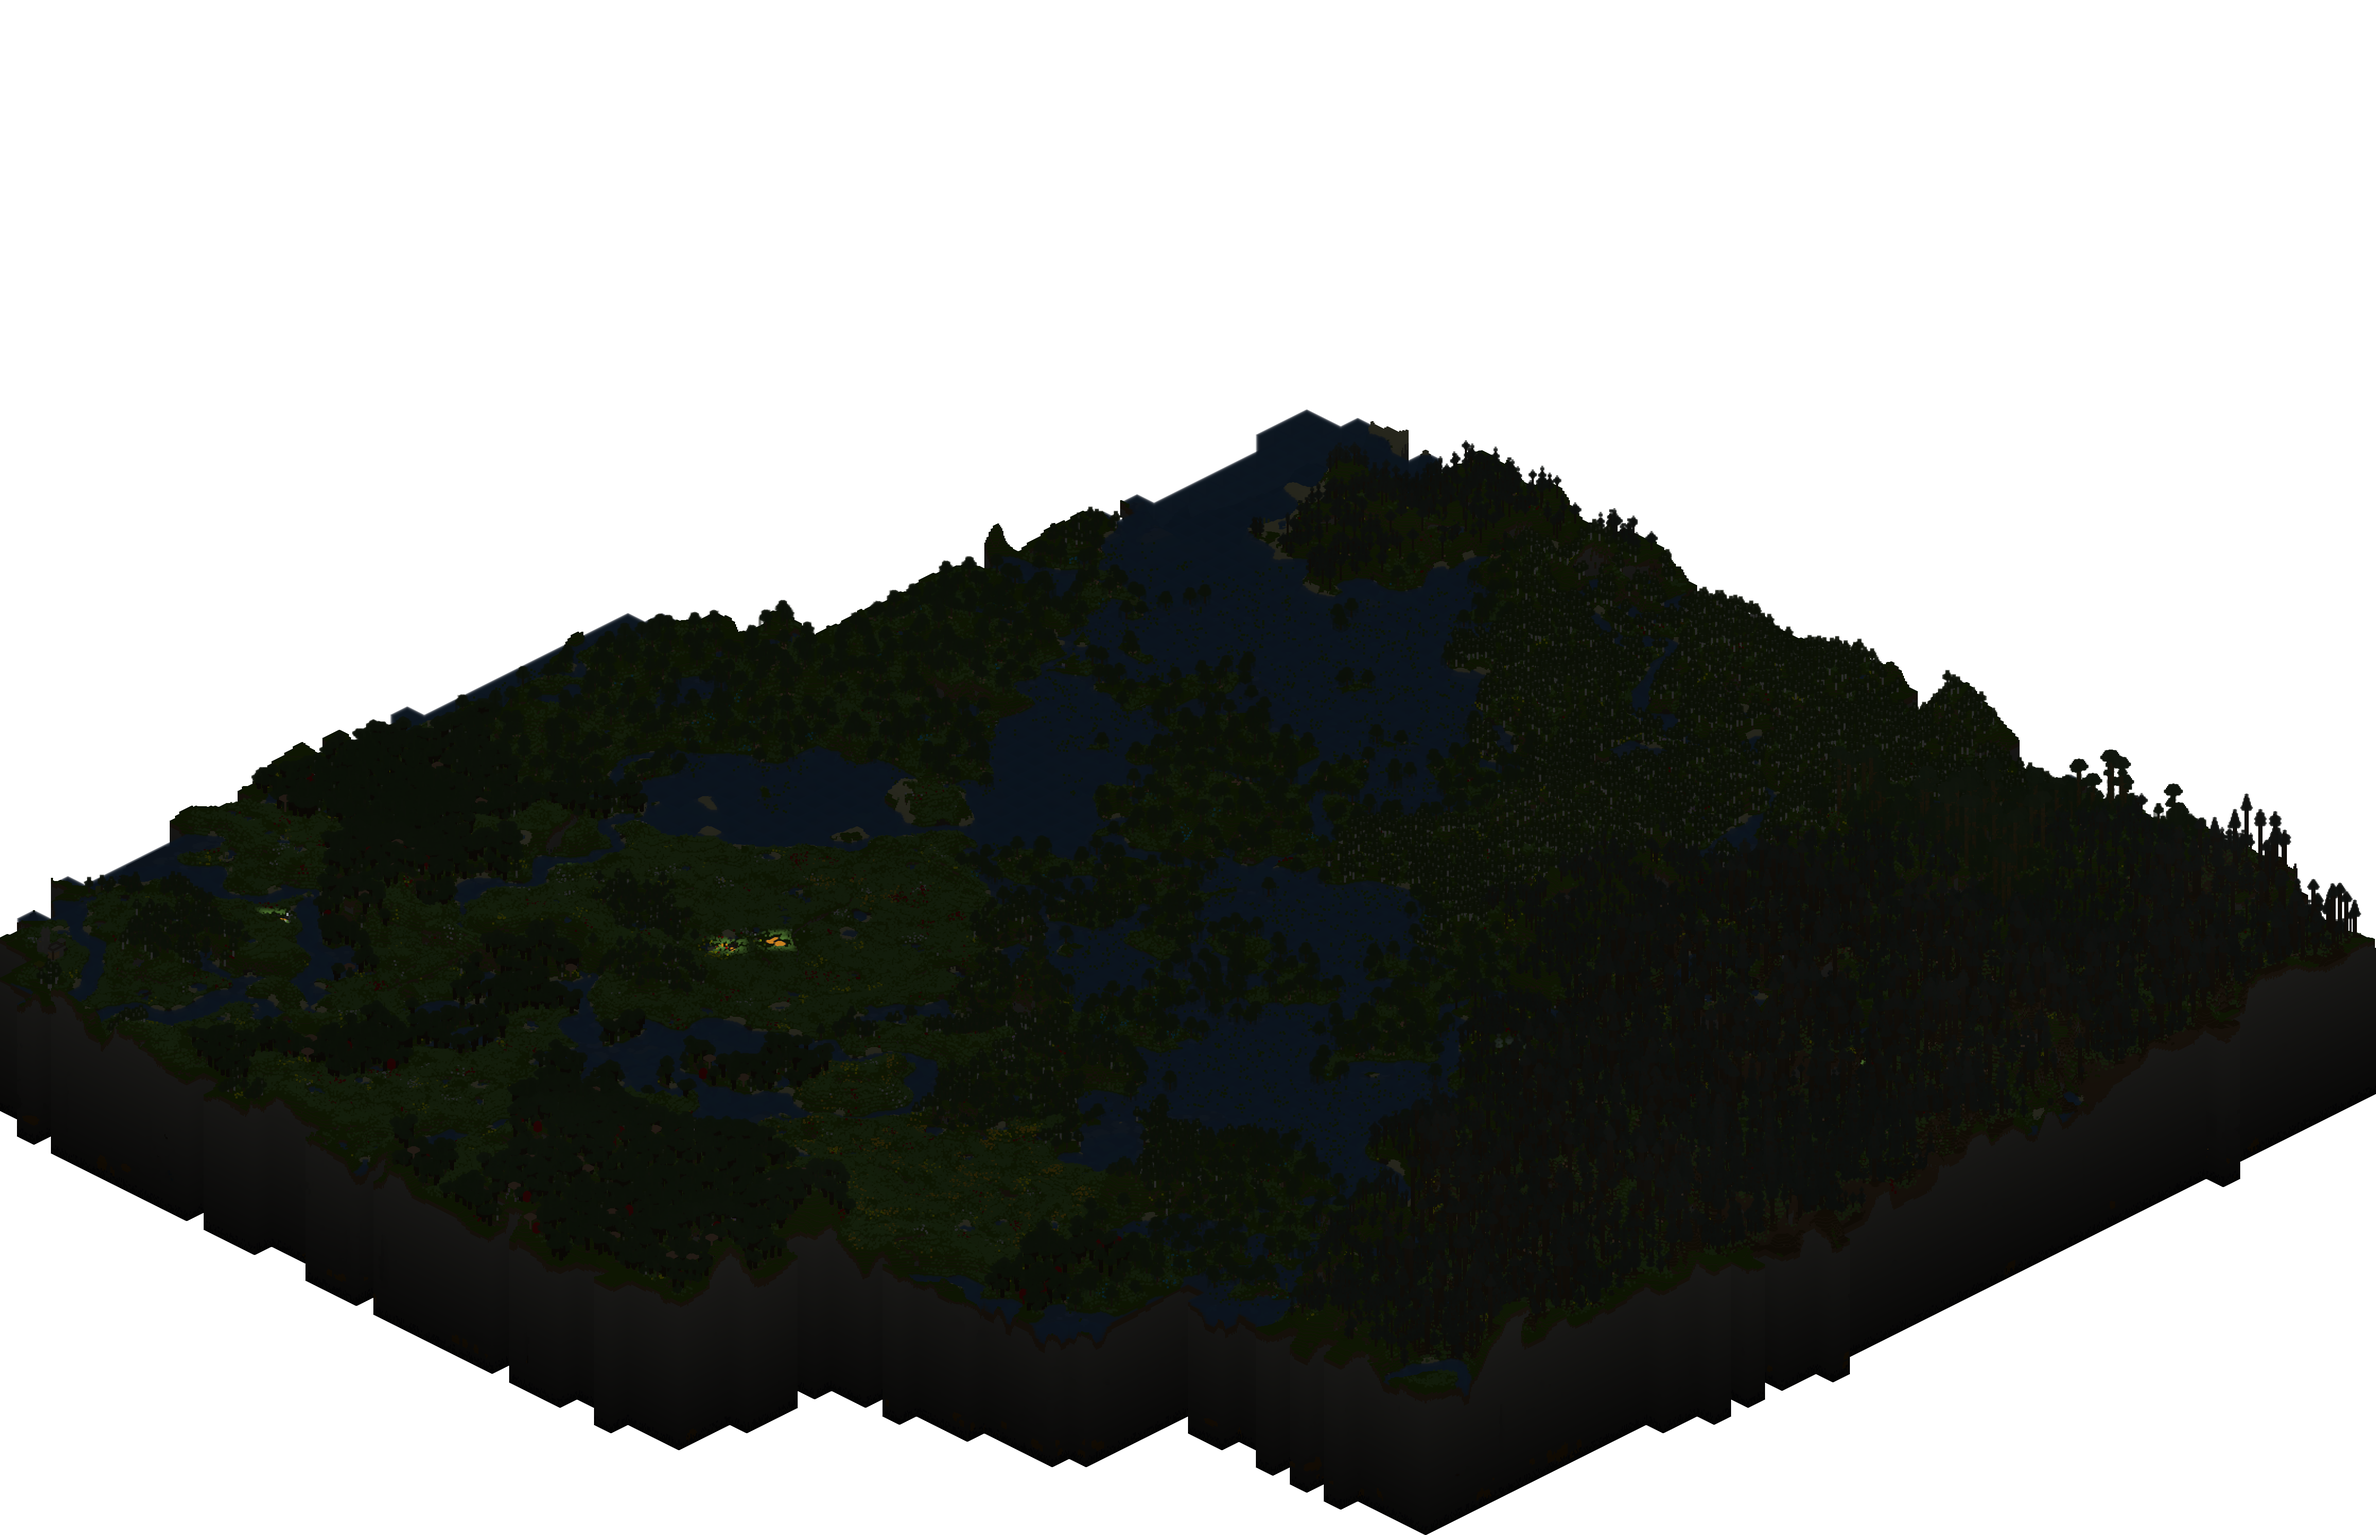
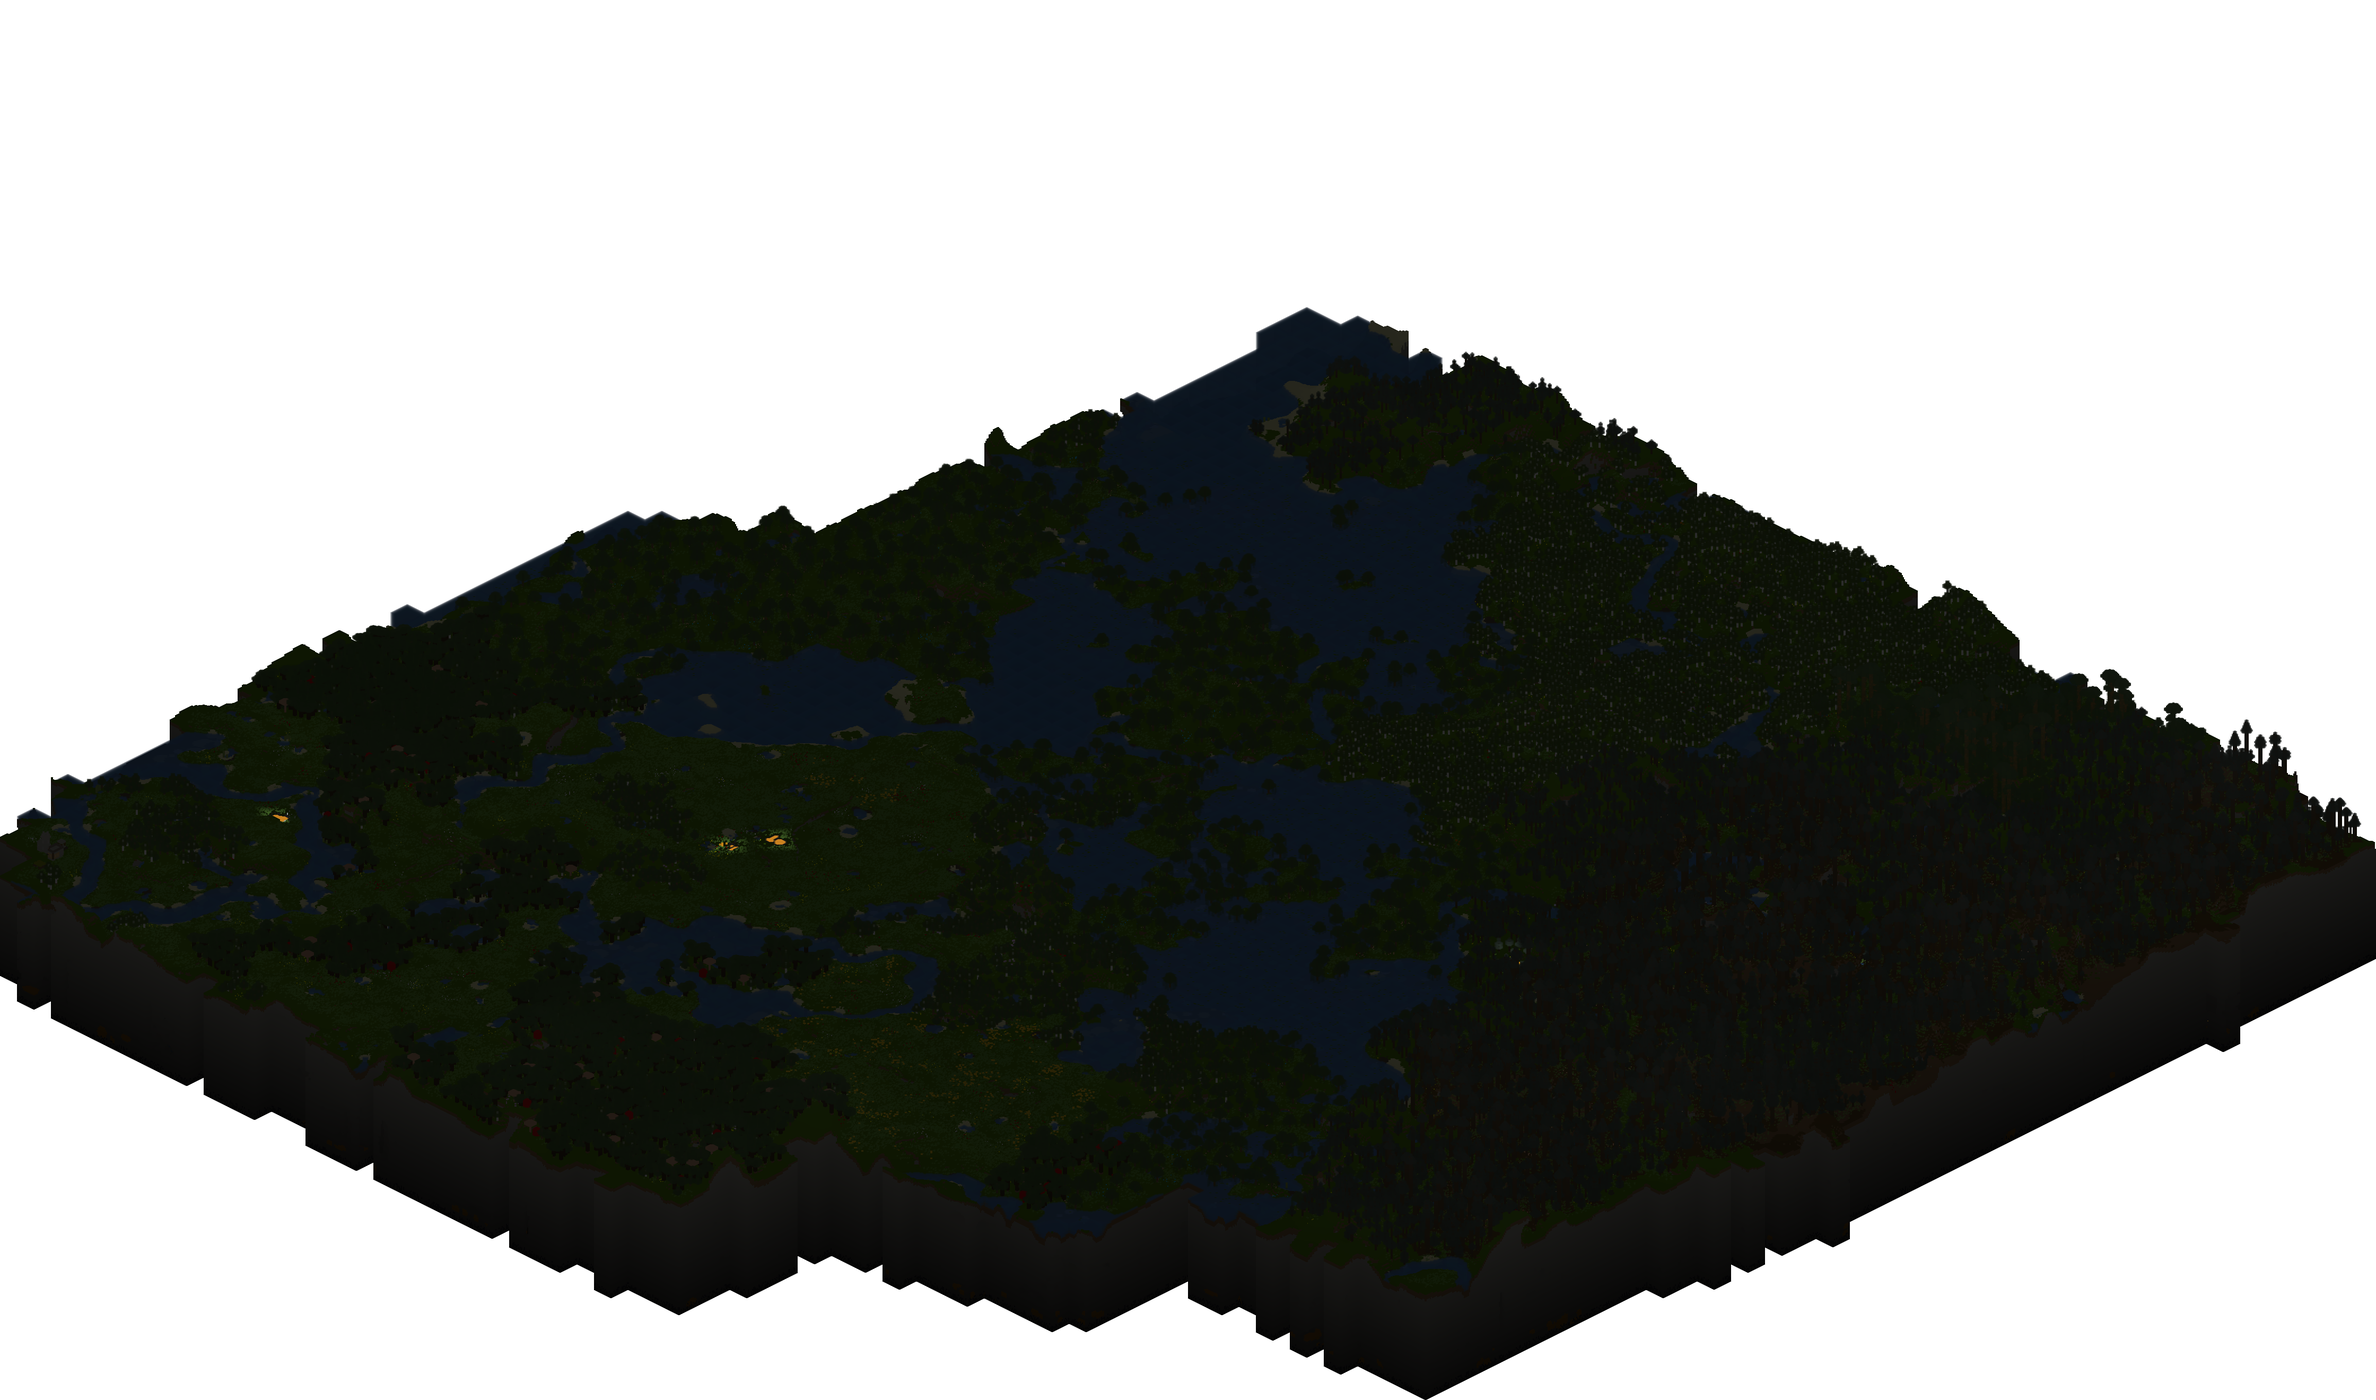
Isometric blocks now overlap vertically
This fixes a problem where hidden blocks were sometimes showing through
to the surface.

Adjusted several constants, as well as height and margin calculations.

Also added a check to avoid drawing the top of a block if it will be
covered by an opaque block or one of the same type. This will save time
and also avoid errors rendering columns of translucent blocks.

This will also pave the way for drawing multicoloured blocks.

diff --git a/world.c b/world.c
@@ -139,14 +139,11 @@ static void get_world_margins(world world, int* margins, const char rotate)
 
 static void get_world_iso_margins(world world, int* margins, const char rotate)
 {
-	// the size of vertical and horizontal region margins
-	int vmargin = REGION_BLOCK_LENGTH * ISO_BLOCK_STEP;
-	int hmargin = ISO_REGION_WIDTH / 2;
-
 	// world margins measured in pixels
 	// start at maximum and decrease as regions are found
-	margins[0] = margins[2] = (world.rxsize + world.rzsize) * vmargin - ISO_BLOCK_STEP;
-	margins[1] = margins[3] = (world.rxsize + world.rzsize + 1) * hmargin;
+	margins[0] = margins[2] = (world.rxsize + world.rzsize) * ISO_REGION_Y_MARGIN
+			- ISO_BLOCK_TOP_HEIGHT;
+	margins[1] = margins[3] = (world.rxsize + world.rzsize + 1) * ISO_REGION_X_MARGIN;
 
 	// world margins measured in regions - used only so we can skip irrelevant regions
 	int wrm[4];
@@ -179,7 +176,7 @@ static void get_world_iso_margins(world world, int* margins, const char rotate)
 			//printf("Margins for region %d,%d at %d,%d: top %d, right %d, bottom %d, left %d\n",
 			//		rx, rz, rwx, rwz, rmargins[0], rmargins[1], rmargins[2], rmargins[3]);
 
-			int rpmargin;
+			int rmargin;
 			for (int i = 0; i < 4; i++)
 			{
 				// skip this corner unless it's one of the ones that's close to a world corner
@@ -188,8 +185,9 @@ static void get_world_iso_margins(world world, int* margins, const char rotate)
 					wrm[i] = rrm[i];
 					// margin for this corner of this region in pixels
 					// assign to world margin if lower
-					rpmargin = rrm[i] * (i % 2 ? hmargin : vmargin) + rmargins[i];
-					if (rpmargin < margins[i]) margins[i] = rpmargin;
+					rmargin = rrm[i] * (i % 2 ? ISO_REGION_X_MARGIN : ISO_REGION_Y_MARGIN)
+							+ rmargins[i];
+					if (rmargin < margins[i]) margins[i] = rmargin;
 				}
 			}
 		}
@@ -257,8 +255,8 @@ image render_world_iso_blockmap(world world, const texture* textures, const char
 	get_world_iso_margins(world, margins, rotate);
 
 	image wimage;
-	wimage.width = (world.rxsize + world.rzsize) * ISO_REGION_WIDTH / 2 - margins[1] - margins[3];
-	wimage.height = ((world.rxsize + world.rzsize) * REGION_BLOCK_LENGTH - 1) * ISO_BLOCK_STEP
+	wimage.width = (world.rxsize + world.rzsize) * ISO_REGION_X_MARGIN - margins[1] - margins[3];
+	wimage.height = ((world.rxsize + world.rzsize) * ISO_REGION_Y_MARGIN - ISO_BLOCK_TOP_HEIGHT)
 			+ ISO_CHUNK_DEPTH - margins[0] - margins[2];
 	wimage.data = (unsigned char*)calloc(wimage.width * wimage.height * CHANNELS, sizeof(char));
 	printf("Read %d regions. Image dimensions: %d x %d\n",
@@ -285,14 +283,13 @@ image render_world_iso_blockmap(world world, const texture* textures, const char
 			}
 			if (!exists) continue;
 
-			int rpx = (rwx + rwz) * ISO_REGION_WIDTH / 2 - margins[3];
+			int rpx = (rwx + rwz) * ISO_REGION_X_MARGIN - margins[3];
 			int rxo = rpx < 0 ? -rpx : 0;
 			int rw = ISO_REGION_WIDTH - rxo - (rpx + ISO_REGION_WIDTH > wimage.width
 					? rpx + ISO_REGION_WIDTH - wimage.width : 0);
 			rpx += rxo;
 
-			int rpy = (world.rxsize - rwx + rwz - 1) * REGION_BLOCK_LENGTH * ISO_BLOCK_STEP
-					- margins[0];
+			int rpy = (world.rxsize - rwx + rwz - 1) * ISO_REGION_Y_MARGIN - margins[0];
 			int ryo = rpy < 0 ? -rpy : 0;
 			int rh = ISO_REGION_HEIGHT - ryo - (rpy + ISO_REGION_HEIGHT > wimage.height
 					? rpy + ISO_REGION_HEIGHT - wimage.height : 0);

diff --git a/region.c b/region.c
@@ -58,12 +58,8 @@ void get_region_iso_margins(const char* regionfile, int* margins, const char rot
 
 	// region margins measured in pixels
 	// start at maximum and decrease as chunks are found
-	margins[0] = margins[2] = ISO_REGION_SURFACE_HEIGHT; // top, bottom
+	margins[0] = margins[2] = ISO_REGION_TOP_HEIGHT; // top, bottom
 	margins[1] = margins[3] = ISO_REGION_WIDTH; // right, left
-
-	// the pixel size of vertical and horizontal chunk margins
-	int hmargin = ISO_CHUNK_WIDTH / 2;
-	int vmargin = CHUNK_BLOCK_LENGTH * ISO_BLOCK_STEP;
 
 	for (int cz = 0; cz < REGION_CHUNK_LENGTH; cz++)
 	{
@@ -82,15 +78,15 @@ void get_region_iso_margins(const char* regionfile, int* margins, const char rot
 						cx + cz // NW
 				};
 
-				int cpm[4];
 				for (int i = 0; i < 4; i++)
 				{
 					// margins for this chunk, measured in pixels
 					// odd ones are multiplied by the horizontal margin, even ones by vertical
-					cpm[i] = ccm[i] * (i % 2 == rotate % 2 ? vmargin : hmargin);
+					int cmargin = ccm[i] *
+							(i % 2 == rotate % 2 ? ISO_CHUNK_Y_MARGIN : ISO_CHUNK_X_MARGIN);
 
 					// assign to rotated region margins if lower
-					if (cpm[i] < margins[(i + rotate) % 4]) margins[(i + rotate) % 4] = cpm[i];
+					if (cmargin < margins[(i + rotate) % 4]) margins[(i + rotate) % 4] = cmargin;
 				}
 			}
 		}
@@ -221,8 +217,8 @@ image render_region_iso_blockmap(const char* regionfile, const texture* textures
 			image cimage = render_chunk_iso_blockmap(chunk, textures, night, rotate);
 			nbt_free(chunk);
 
-			int cpx = (cx + cz) * ISO_CHUNK_WIDTH / 2;
-			int cpy = (REGION_CHUNK_LENGTH - cx + cz - 1) * CHUNK_BLOCK_LENGTH * ISO_BLOCK_STEP;
+			int cpx = (cx + cz) * ISO_CHUNK_X_MARGIN;
+			int cpy = (REGION_CHUNK_LENGTH - cx + cz - 1) * ISO_CHUNK_Y_MARGIN;
 			//printf("Writing chunk %d,%d to pixel %d,%d\n", cx, cz, cpx, cpy);
 
 			for (int py = 0; py < ISO_CHUNK_HEIGHT; py++)

diff --git a/chunk.c b/chunk.c
@@ -209,12 +209,24 @@ image render_chunk_iso_blockmap(nbt_node* chunk, const texture* textures, const 
 				}
 
 				int px = (x + z) * ISO_BLOCK_WIDTH / 2;
-				int py = (CHUNK_BLOCK_LENGTH - x + z - 1) * ISO_BLOCK_STEP
-						+ (CHUNK_BLOCK_HEIGHT - by - 1) * ISO_BLOCK_HEIGHT;
+				int py = (CHUNK_BLOCK_LENGTH - x + z - 1) * ISO_BLOCK_TOP_HEIGHT
+						+ (CHUNK_BLOCK_HEIGHT - by - 1) * ISO_BLOCK_DEPTH;
 				//printf("Block %d,%d,%d rendering at pixel %d,%d\n", bx, bz, by, px, py);
 
 				for (int sy = 0; sy < ISO_BLOCK_HEIGHT; sy++)
 				{
+					// before drawing the top of this block, check the block above
+					if (sy < ISO_BLOCK_TOP_HEIGHT && by < CHUNK_BLOCK_HEIGHT - 1)
+					{
+						// if the block above is the same type, don't draw the top of this one
+						unsigned char tblockid = blocks[b + CHUNK_BLOCK_AREA];
+						if (tblockid == blockid) continue;
+
+						// if the block above is opaque, don't draw the top of this one
+						unsigned char ttype = data[b + CHUNK_BLOCK_AREA] % textures[tblockid].mask;
+						if (textures[tblockid].types[ttype].colour[ALPHA] == 255) continue;
+					}
+
 					for (int sx = 0; sx < ISO_BLOCK_WIDTH; sx++)
 					{
 						if (textures[blockid].types[type].shape[sy * ISO_BLOCK_WIDTH + sx])

diff --git a/chunk.h b/chunk.h
@@ -8,6 +8,7 @@
 #include "textures.h"
 
 
+// world dimensions
 #define CHUNK_BLOCK_LENGTH 16
 #define CHUNK_SECTION_HEIGHT 16
 #define SECTION_BLOCK_HEIGHT 16
@@ -15,11 +16,14 @@
 #define CHUNK_BLOCK_HEIGHT SECTION_BLOCK_HEIGHT * CHUNK_SECTION_HEIGHT
 #define SECTION_BLOCK_VOLUME SECTION_BLOCK_HEIGHT * CHUNK_BLOCK_AREA
 #define CHUNK_BLOCK_VOLUME CHUNK_BLOCK_HEIGHT * CHUNK_BLOCK_AREA
-#define ISO_BLOCK_STEP 1
+
+// isometric pixel dimensions
 #define ISO_CHUNK_WIDTH (CHUNK_BLOCK_LENGTH * ISO_BLOCK_WIDTH)
-#define ISO_CHUNK_SURFACE_HEIGHT ((CHUNK_BLOCK_LENGTH * 2 - 1) * ISO_BLOCK_STEP)
-#define ISO_CHUNK_DEPTH (ISO_BLOCK_HEIGHT * CHUNK_BLOCK_HEIGHT - ISO_BLOCK_STEP)
-#define ISO_CHUNK_HEIGHT (ISO_CHUNK_SURFACE_HEIGHT + ISO_CHUNK_DEPTH)
+#define ISO_CHUNK_TOP_HEIGHT ((CHUNK_BLOCK_LENGTH * 2 - 1) * ISO_BLOCK_TOP_HEIGHT)
+#define ISO_CHUNK_DEPTH (ISO_BLOCK_DEPTH * CHUNK_BLOCK_HEIGHT)
+#define ISO_CHUNK_HEIGHT (ISO_CHUNK_TOP_HEIGHT + ISO_CHUNK_DEPTH)
+#define ISO_CHUNK_X_MARGIN (ISO_CHUNK_WIDTH / 2)
+#define ISO_CHUNK_Y_MARGIN (CHUNK_BLOCK_LENGTH * ISO_BLOCK_TOP_HEIGHT)
 
 
 void get_chunk_blockdata(nbt_node* chunk, unsigned char* blocks, unsigned char* data,

diff --git a/region.h b/region.h
@@ -2,14 +2,20 @@
 #include "textures.h"
 
 
+#define SECTOR_LENGTH 4096
+
+// world dimensions
 #define REGION_CHUNK_LENGTH 32
 #define REGION_BLOCK_LENGTH REGION_CHUNK_LENGTH * CHUNK_BLOCK_LENGTH
 #define REGION_CHUNK_AREA REGION_CHUNK_LENGTH * REGION_CHUNK_LENGTH
 #define REGION_BLOCK_AREA REGION_CHUNK_AREA * CHUNK_BLOCK_AREA
-#define SECTOR_LENGTH 4096
+
+// isometric pixel dimensions
 #define ISO_REGION_WIDTH (ISO_CHUNK_WIDTH * REGION_CHUNK_LENGTH)
-#define ISO_REGION_SURFACE_HEIGHT ((REGION_BLOCK_LENGTH * 2 - 1) * ISO_BLOCK_STEP)
-#define ISO_REGION_HEIGHT (ISO_REGION_SURFACE_HEIGHT + ISO_CHUNK_DEPTH)
+#define ISO_REGION_TOP_HEIGHT ((REGION_BLOCK_LENGTH * 2 - 1) * ISO_BLOCK_TOP_HEIGHT)
+#define ISO_REGION_HEIGHT (ISO_REGION_TOP_HEIGHT + ISO_CHUNK_DEPTH)
+#define ISO_REGION_X_MARGIN (ISO_REGION_WIDTH / 2)
+#define ISO_REGION_Y_MARGIN (REGION_BLOCK_LENGTH * ISO_BLOCK_TOP_HEIGHT)
 
 
 void get_region_margins(const char* regionfile, int* margins, const char rotate);

diff --git a/textures.h b/textures.h
@@ -2,11 +2,15 @@
 #define TEXTURES_H
 
 
-#define ISO_BLOCK_WIDTH 4
-#define ISO_BLOCK_HEIGHT 4
 #define BLOCK_TYPES 176
 #define CHANNELS 4
 #define ALPHA CHANNELS - 1
+
+// isometric pixel dimensions
+#define ISO_BLOCK_WIDTH 4
+#define ISO_BLOCK_TOP_HEIGHT 1
+#define ISO_BLOCK_DEPTH 3
+#define ISO_BLOCK_HEIGHT (ISO_BLOCK_TOP_HEIGHT + ISO_BLOCK_DEPTH)
 
 
 typedef struct texture {
